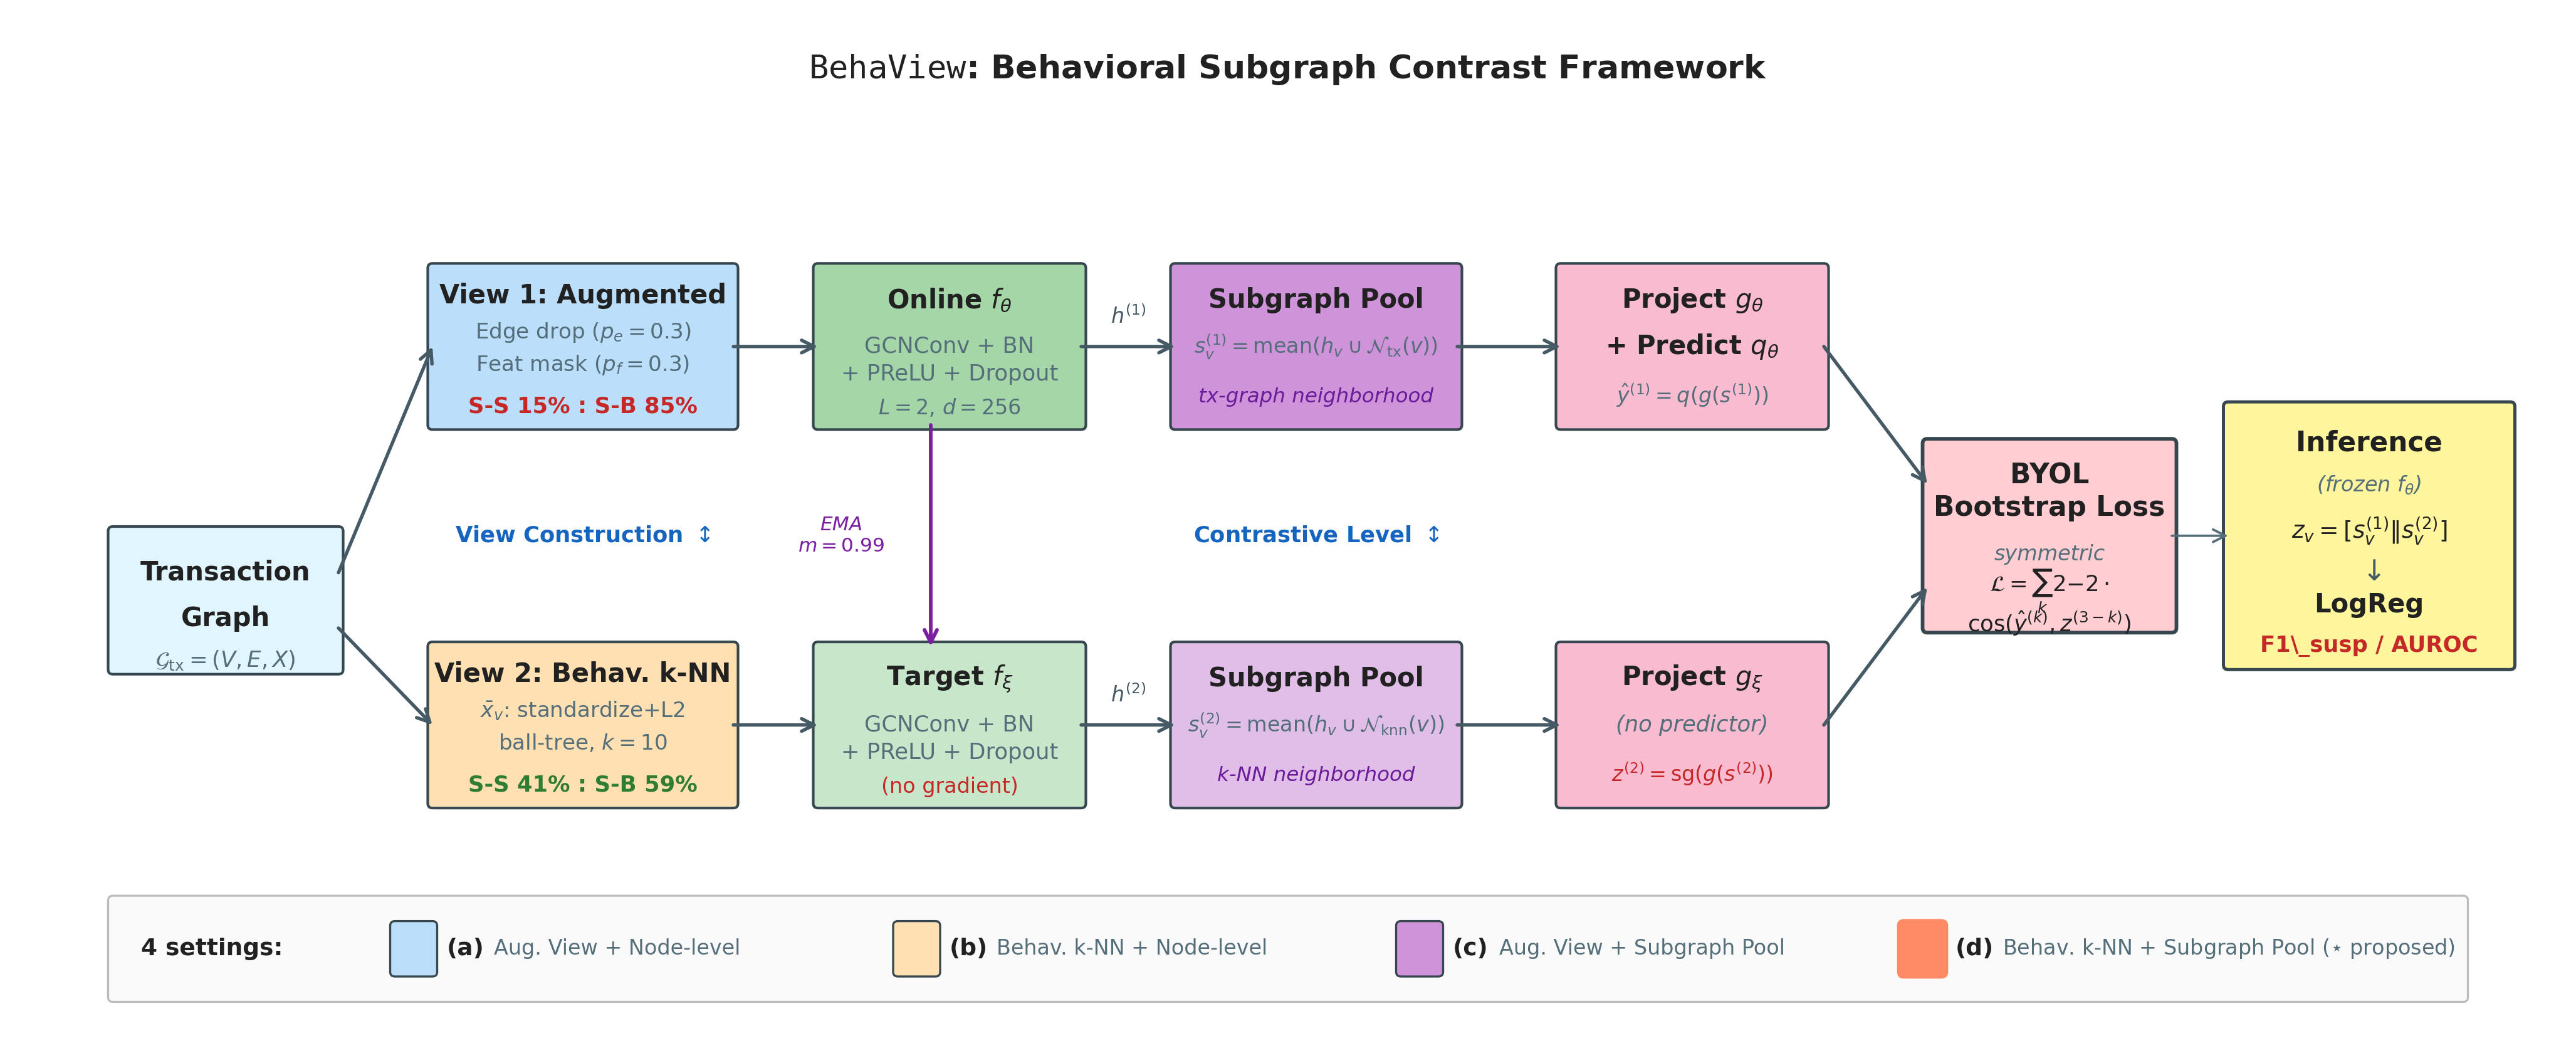
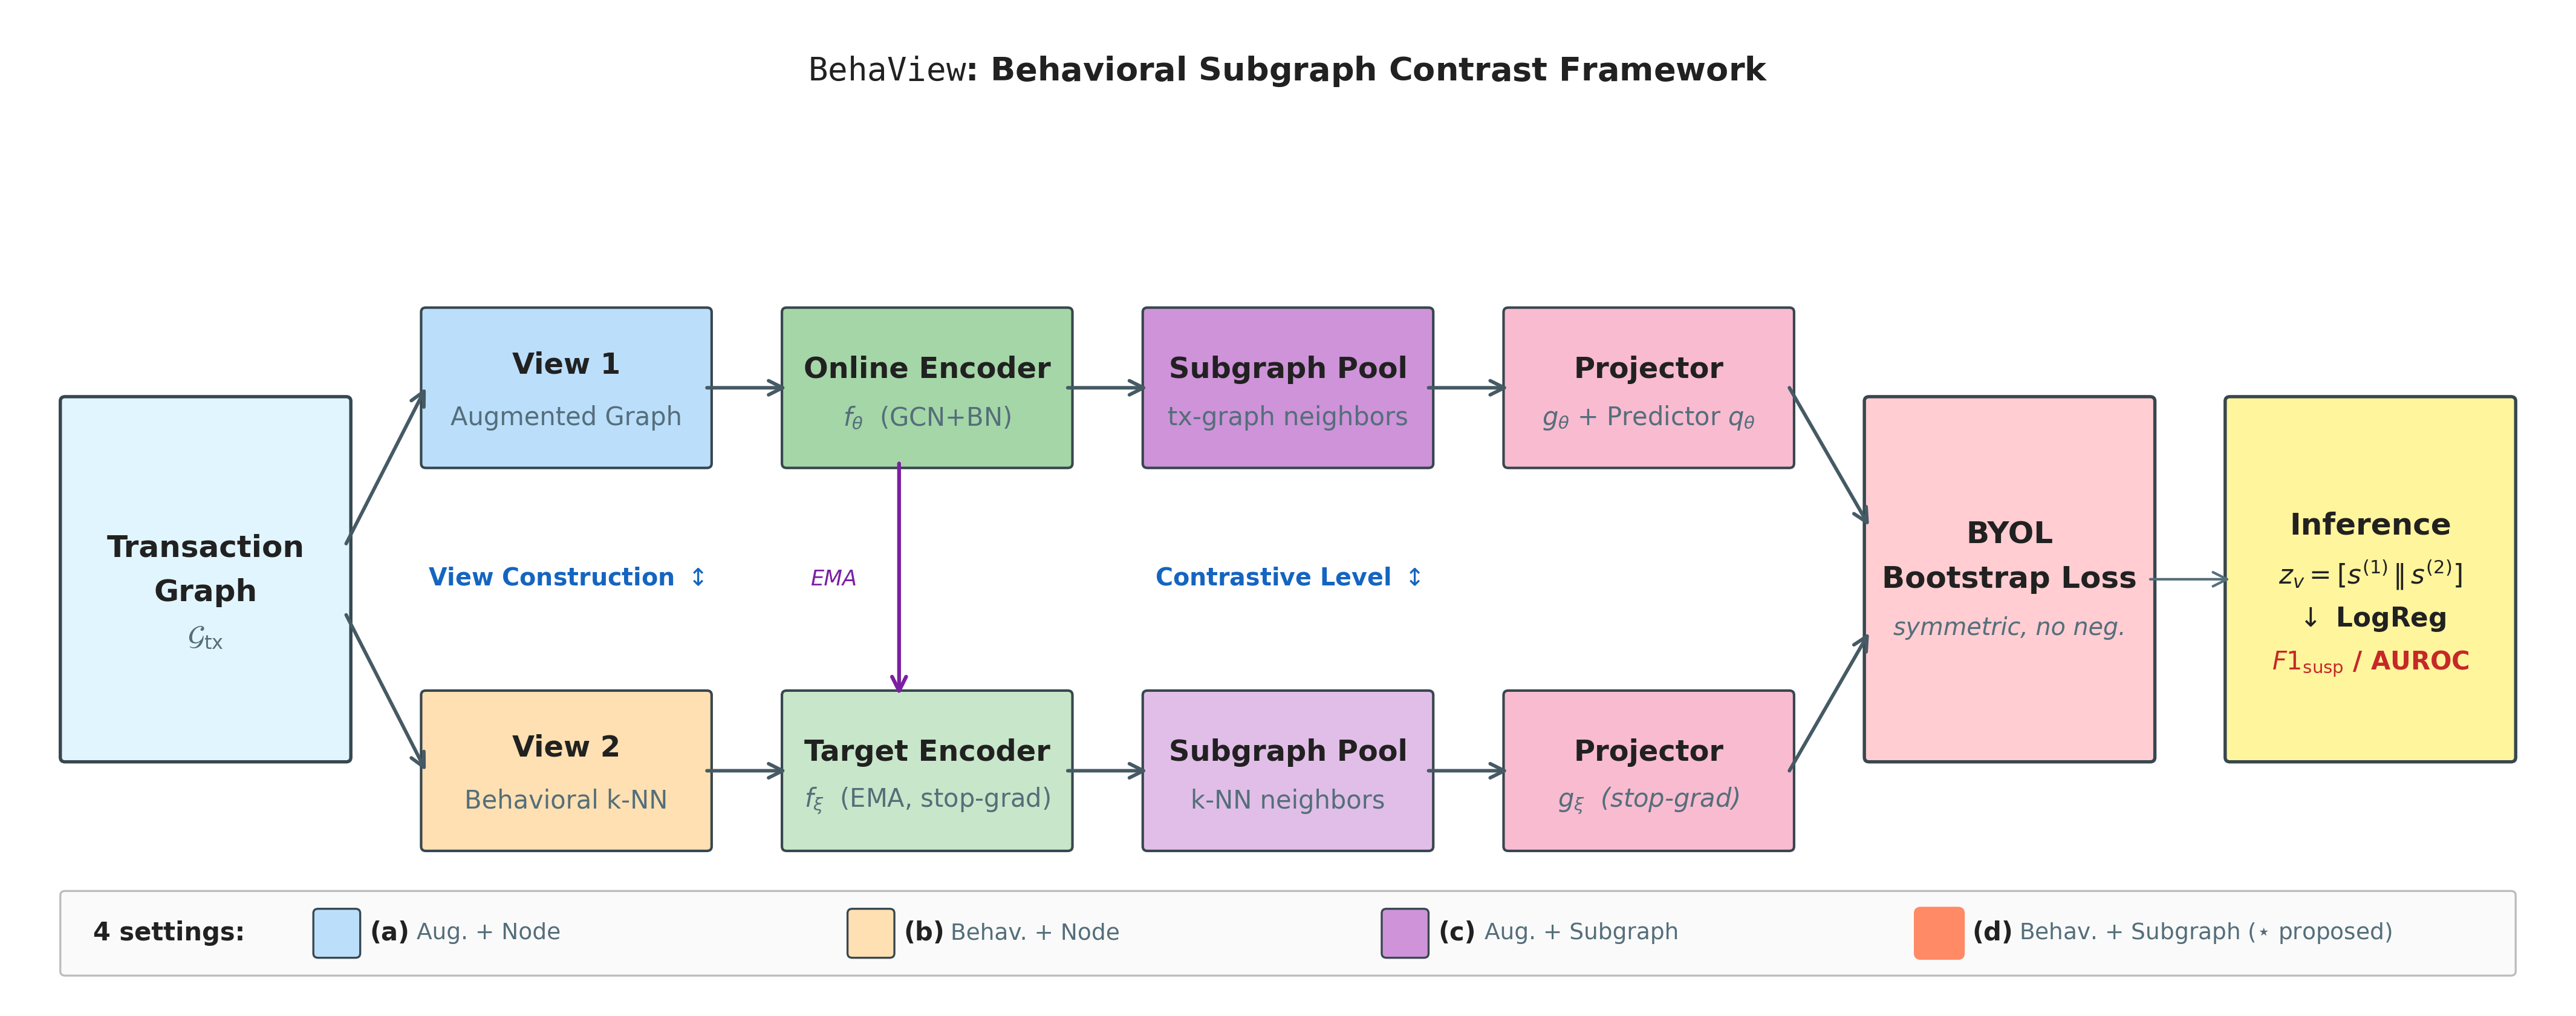
Redesign Figure 2: uniform box widths + matched terminal boxes
Per author guidance:
- All pipeline boxes (View, Encoder, Pool, Projector) share uniform
  width (BW=3.0)
- Three terminal boxes (Transaction Graph, BYOL Loss, Inference) share
  identical width AND height (3.0 x 4.0; spans both rows)

Text inside boxes reduced to component name + one-line role:
- View 1: 'View 1' / 'Augmented Graph' (was 4 lines)
- View 2: 'View 2' / 'Behavioral k-NN'
- Encoder: 'Online/Target Encoder' / 'f_θ (GCN+BN)' / 'f_ξ (EMA, stop-grad)'
- Pool: 'Subgraph Pool' / 'tx-graph neighbors' or 'k-NN neighbors'
- Projector: 'g_θ + Predictor q_θ' or 'g_ξ (stop-grad)'
- BYOL: 'Bootstrap Loss' / 'symmetric, no neg.'
- Inference: 'z_v = [s^(1) || s^(2)] → LogReg → F1_susp/AUROC'

Removed from figure (now only in main text §3.4-3.5 + caption):
- Hyperparameters: p_e=0.3, p_f=0.3, L=2, d=256, k=10, m=0.99
- Equations: pool formula, BYOL loss equation, predictor equation
- Implementation details: ball-tree, standardize+L2

Result: fonts 11.5pt component names + 10pt roles (was 8-10pt mixed),
visually cleaner overview, better column-width fit.

diff --git a/visualize/gen_framework.py b/visualize/gen_framework.py
@@ -1,22 +1,17 @@
 """BehaView framework figure (matplotlib).
 
-Comprehensive design including:
-- Method name in title
-- Two-branch (online/target) BYOL structure
-- EMA momentum arrow (top -> bottom encoder)
-- Stop-gradient symbol on target output
-- Predictor q on online side; projector g on both sides
-- Subgraph pool annotated with respective neighborhood graph (tx vs k-NN)
-- Bootstrap loss with cross-view symmetry
-- Inference path with concat + LogReg
-- 4-setting legend with (d) star marker
+Uniform-width design:
+- All pipeline boxes share the same width (BW)
+- Transaction Graph (start), BYOL Loss, and Inference (end) share the same
+  width AND height (TERMINAL_W x TERMINAL_H)
+- Text inside each box reduced to component name + role only
+- Hyperparameters/equations moved to caption and main text
 """
 import matplotlib
 matplotlib.use('Agg')
 import matplotlib.pyplot as plt
 import matplotlib.patches as mpatches
 from matplotlib.patches import FancyBboxPatch, FancyArrowPatch
-import numpy as np
 import os
 
 OUT = '/home/work/kftc_model/KA-003-FraudCenGCL/_paper/figures'
@@ -33,10 +28,10 @@ plt.rcParams.update({
 C_INPUT     = '#E1F5FE'
 C_VIEW1     = '#BBDEFB'
 C_VIEW2     = '#FFE0B2'
-C_ENC_ON    = '#A5D6A7'   # online encoder (slightly brighter green)
-C_ENC_TG    = '#C8E6C9'   # target encoder (lighter)
-C_POOL_TX   = '#CE93D8'   # subgraph pool over tx graph
-C_POOL_KNN  = '#E1BEE7'   # subgraph pool over k-NN graph
+C_ENC_ON    = '#A5D6A7'
+C_ENC_TG    = '#C8E6C9'
+C_POOL_TX   = '#CE93D8'
+C_POOL_KNN  = '#E1BEE7'
 C_PROJ      = '#F8BBD0'
 C_LOSS      = '#FFCDD2'
 C_INFER     = '#FFF59D'
@@ -49,10 +44,39 @@ C_ARROW     = '#455A64'
 C_EMA       = '#7B1FA2'
 C_SG        = '#C62828'
 
-fig = plt.figure(figsize=(13.5, 5.4))
+# ============ Layout grid ============
+# All pipeline boxes have uniform width BW.
+# Terminal boxes (Input, BYOL Loss, Inference) share width = TERMINAL_W and height = TERMINAL_H.
+BW = 3.0           # uniform pipeline box width
+ROW_H = 1.7        # height of each row box (View/Encoder/Pool/Proj)
+TERMINAL_W = 3.0   # input + BYOL + Inference width (== BW for visual unity)
+TERMINAL_H = 4.0   # input + BYOL + Inference height (spans both rows)
+
+GAP = 0.85         # horizontal gap between columns
+
+# Column x positions (left edge of each box)
+x_in   = 0.5
+x_v    = x_in + TERMINAL_W + GAP
+x_enc  = x_v   + BW + GAP
+x_pool = x_enc + BW + GAP
+x_proj = x_pool + BW + GAP
+x_loss = x_proj + BW + GAP
+x_infr = x_loss + TERMINAL_W + GAP
+
+ROW_T_Y = 6.0   # online row (top) bottom-edge y
+ROW_B_Y = 1.7   # target row (bottom) bottom-edge y
+
+# Terminal box vertical placement: spans both rows (centered)
+TERMINAL_Y = (ROW_T_Y + ROW_B_Y + ROW_H - TERMINAL_H) / 2
+
+# Total figure dimensions
+TOTAL_X = x_infr + TERMINAL_W + 0.5
+TOTAL_Y = 11.0
+
+fig = plt.figure(figsize=(14.0, 5.4))
 ax = fig.add_axes([0, 0, 1, 1])
-ax.set_xlim(0, 27)
-ax.set_ylim(0, 11)
+ax.set_xlim(0, TOTAL_X)
+ax.set_ylim(0, TOTAL_Y)
 ax.axis('off')
 
 # ---------- Helpers ----------
@@ -61,207 +85,158 @@ def box(x, y, w, h, color, edge=C_BORDER, lw=1.0, **kw):
                        facecolor=color, edgecolor=edge, linewidth=lw, **kw)
     ax.add_patch(p)
 
-def text(x, y, t, fs=9, weight='normal', color=C_TEXT, ha='center', va='center', style='normal'):
+def text(x, y, t, fs=11, weight='normal', color=C_TEXT, ha='center', va='center', style='normal'):
     ax.text(x, y, t, fontsize=fs, fontweight=weight, color=color, ha=ha, va=va, style=style)
 
-def arrow(x1, y1, x2, y2, color=C_ARROW, lw=1.3, style='->', text_label=None,
-          text_offset=(0, 0.25), text_color=None, text_size=7.5):
+def arrow(x1, y1, x2, y2, color=C_ARROW, lw=1.4, style='->',
+          text_label=None, text_offset=(0, 0.3), text_color=None, text_size=8.5):
     a = FancyArrowPatch((x1, y1), (x2, y2),
                         arrowstyle=style, color=color, linewidth=lw,
-                        mutation_scale=12, shrinkA=0, shrinkB=0)
+                        mutation_scale=14, shrinkA=0, shrinkB=0)
     ax.add_patch(a)
     if text_label:
         ax.text((x1+x2)/2 + text_offset[0], (y1+y2)/2 + text_offset[1],
                 text_label, fontsize=text_size, color=text_color or color,
                 ha='center', va='center', style='italic',
                 bbox=dict(boxstyle='round,pad=0.2', facecolor='white',
-                          edgecolor='none', alpha=0.85))
+                          edgecolor='none', alpha=0.9))
 
-# ============ Title (top) ============
-text(13.5, 10.45,
+# ============ Title ============
+text(TOTAL_X/2, 10.4,
      '$\\mathtt{BehaView}$: Behavioral Subgraph Contrast Framework',
-     fs=12.5, weight='bold')
+     fs=13, weight='bold')
 
-# ============ Layout grid ============
-# 6 columns: Input | View | Encoder | Pool | Projection/Predictor | Loss/Inference
-COL = {
-    'IN':   (1.0,  2.4),   # x_left, width
-    'VIEW': (4.4,  3.2),
-    'ENC':  (8.5,  2.8),
-    'POOL': (12.3, 3.0),
-    'PROJ': (16.4, 2.8),
-    'LOSS': (20.3, 2.6),
-    'INFR': (23.5, 3.0),
-}
-ROW_T_Y = 6.6  # online row (top)
-ROW_B_Y = 2.5  # target row (bottom)
-ROW_H = 1.7
+# ============ Input (terminal) ============
+icx = x_in + TERMINAL_W/2
+icy = TERMINAL_Y + TERMINAL_H/2
+box(x_in, TERMINAL_Y, TERMINAL_W, TERMINAL_H, C_INPUT, lw=1.3)
+text(icx, icy + 0.35, 'Transaction', fs=12, weight='bold')
+text(icx, icy - 0.15, 'Graph', fs=12, weight='bold')
+text(icx, icy - 0.65, '$\\mathcal{G}_{\\mathrm{tx}}$', fs=11, color=C_SUB)
 
-# ============ Input (single, branches into top + bottom) ============
-ix, iw = COL['IN']
-icx = ix + iw/2
-iy = (ROW_T_Y + ROW_B_Y) / 2 - 0.6
-ih = 1.5
-box(ix, iy, iw, ih, C_INPUT)
-text(icx, iy + 1.05, 'Transaction', fs=10, weight='bold')
-text(icx, iy + 0.55, 'Graph', fs=10, weight='bold')
-text(icx, iy + 0.10, '$\\mathcal{G}_{\\mathrm{tx}}=(V,E,X)$', fs=8.5, color=C_SUB)
+# ============ View 1 / View 2 ============
+vcx = x_v + BW/2
+box(x_v, ROW_T_Y, BW, ROW_H, C_VIEW1)
+text(vcx, ROW_T_Y + ROW_H*0.65, 'View 1', fs=11.5, weight='bold')
+text(vcx, ROW_T_Y + ROW_H*0.30, 'Augmented Graph', fs=10, color=C_SUB)
 
-# ============ View 1 (top) ============
-vx, vw = COL['VIEW']
-vcx = vx + vw/2
-box(vx, ROW_T_Y, vw, ROW_H, C_VIEW1)
-text(vcx, ROW_T_Y + 1.40, 'View 1: Augmented', fs=10, weight='bold')
-text(vcx, ROW_T_Y + 1.00, 'Edge drop ($p_e{=}0.3$)', fs=8.2, color=C_SUB)
-text(vcx, ROW_T_Y + 0.65, 'Feat mask ($p_f{=}0.3$)', fs=8.2, color=C_SUB)
-text(vcx, ROW_T_Y + 0.20, 'S-S 15% : S-B 85%', fs=8.5, weight='bold', color='#C62828')
-
-# ============ View 2 (bottom) ============
-box(vx, ROW_B_Y, vw, ROW_H, C_VIEW2)
-text(vcx, ROW_B_Y + 1.40, 'View 2: Behav. k-NN', fs=10, weight='bold')
-text(vcx, ROW_B_Y + 1.00, '$\\bar{x}_v$: standardize+L2', fs=8.2, color=C_SUB)
-text(vcx, ROW_B_Y + 0.65, 'ball-tree, $k{=}10$', fs=8.2, color=C_SUB)
-text(vcx, ROW_B_Y + 0.20, 'S-S 41% : S-B 59%', fs=8.5, weight='bold', color='#2E7D32')
+box(x_v, ROW_B_Y, BW, ROW_H, C_VIEW2)
+text(vcx, ROW_B_Y + ROW_H*0.65, 'View 2', fs=11.5, weight='bold')
+text(vcx, ROW_B_Y + ROW_H*0.30, 'Behavioral k-NN', fs=10, color=C_SUB)
 
 # Input → views
-arrow(ix+iw, iy + ih*0.7, vx, ROW_T_Y + ROW_H/2)
-arrow(ix+iw, iy + ih*0.3, vx, ROW_B_Y + ROW_H/2)
+arrow(x_in + TERMINAL_W, icy + 0.4, x_v, ROW_T_Y + ROW_H/2)
+arrow(x_in + TERMINAL_W, icy - 0.4, x_v, ROW_B_Y + ROW_H/2)
 
-# Axis 1 label
-text(vcx, (ROW_T_Y + ROW_B_Y + ROW_H)/2, 'View Construction $\\updownarrow$',
-     fs=8.5, weight='bold', color=C_AXIS)
+# Axis 1
+text(vcx, (ROW_T_Y + ROW_B_Y + ROW_H)/2,
+     'View Construction $\\updownarrow$', fs=9.5, weight='bold', color=C_AXIS)
 
 # ============ Encoder ============
-ex, ew = COL['ENC']
-ecx = ex + ew/2
-box(ex, ROW_T_Y, ew, ROW_H, C_ENC_ON)
-text(ecx, ROW_T_Y + 1.35, 'Online $f_\\theta$', fs=10, weight='bold')
-text(ecx, ROW_T_Y + 0.85, 'GCNConv + BN', fs=8.5, color=C_SUB)
-text(ecx, ROW_T_Y + 0.55, '+ PReLU + Dropout', fs=8.5, color=C_SUB)
-text(ecx, ROW_T_Y + 0.18, '$L{=}2$, $d{=}256$', fs=8.0, color=C_SUB, weight='normal')
+ecx = x_enc + BW/2
+box(x_enc, ROW_T_Y, BW, ROW_H, C_ENC_ON)
+text(ecx, ROW_T_Y + ROW_H*0.62, 'Online Encoder', fs=11.5, weight='bold')
+text(ecx, ROW_T_Y + ROW_H*0.30, '$f_\\theta$  (GCN+BN)', fs=10, color=C_SUB)
 
-box(ex, ROW_B_Y, ew, ROW_H, C_ENC_TG)
-text(ecx, ROW_B_Y + 1.35, 'Target $f_\\xi$', fs=10, weight='bold')
-text(ecx, ROW_B_Y + 0.85, 'GCNConv + BN', fs=8.5, color=C_SUB)
-text(ecx, ROW_B_Y + 0.55, '+ PReLU + Dropout', fs=8.5, color=C_SUB)
-text(ecx, ROW_B_Y + 0.18, '(no gradient)', fs=8.0, color=C_SG, weight='normal')
+box(x_enc, ROW_B_Y, BW, ROW_H, C_ENC_TG)
+text(ecx, ROW_B_Y + ROW_H*0.62, 'Target Encoder', fs=11.5, weight='bold')
+text(ecx, ROW_B_Y + ROW_H*0.30, '$f_\\xi$  (EMA, stop-grad)', fs=10, color=C_SUB)
 
 # View → Encoder
-arrow(vx+vw, ROW_T_Y + ROW_H/2, ex, ROW_T_Y + ROW_H/2)
-arrow(vx+vw, ROW_B_Y + ROW_H/2, ex, ROW_B_Y + ROW_H/2)
+arrow(x_v + BW, ROW_T_Y + ROW_H/2, x_enc, ROW_T_Y + ROW_H/2)
+arrow(x_v + BW, ROW_B_Y + ROW_H/2, x_enc, ROW_B_Y + ROW_H/2)
 
-# EMA arrow online -> target (vertical)
-arrow(ecx - 0.2, ROW_T_Y, ecx - 0.2, ROW_B_Y + ROW_H,
-      color=C_EMA, lw=1.4, style='->',
-      text_label='EMA\n$m{=}0.99$', text_offset=(-0.95, 0), text_color=C_EMA, text_size=7.5)
+# EMA (online → target, vertical)
+arrow(ecx - 0.3, ROW_T_Y, ecx - 0.3, ROW_B_Y + ROW_H,
+      color=C_EMA, lw=1.5, text_label='EMA',
+      text_offset=(-0.7, 0), text_color=C_EMA, text_size=8.5)
 
-# ============ Subgraph Pool ============
-px, pw = COL['POOL']
-pcx = px + pw/2
-box(px, ROW_T_Y, pw, ROW_H, C_POOL_TX)
-text(pcx, ROW_T_Y + 1.35, 'Subgraph Pool', fs=10, weight='bold')
-text(pcx, ROW_T_Y + 0.85, '$s^{(1)}_v = \\mathrm{mean}(h_v \\cup \\mathcal{N}_{\\mathrm{tx}}(v))$',
-     fs=8.0, color=C_SUB)
-text(pcx, ROW_T_Y + 0.30, 'tx-graph neighborhood', fs=7.8, color='#6A1B9A', style='italic')
+# ============ Pool ============
+pcx = x_pool + BW/2
+box(x_pool, ROW_T_Y, BW, ROW_H, C_POOL_TX)
+text(pcx, ROW_T_Y + ROW_H*0.62, 'Subgraph Pool', fs=11.5, weight='bold')
+text(pcx, ROW_T_Y + ROW_H*0.30, 'tx-graph neighbors', fs=10, color=C_SUB)
 
-box(px, ROW_B_Y, pw, ROW_H, C_POOL_KNN)
-text(pcx, ROW_B_Y + 1.35, 'Subgraph Pool', fs=10, weight='bold')
-text(pcx, ROW_B_Y + 0.85, '$s^{(2)}_v = \\mathrm{mean}(h_v \\cup \\mathcal{N}_{\\mathrm{knn}}(v))$',
-     fs=8.0, color=C_SUB)
-text(pcx, ROW_B_Y + 0.30, 'k-NN neighborhood', fs=7.8, color='#6A1B9A', style='italic')
+box(x_pool, ROW_B_Y, BW, ROW_H, C_POOL_KNN)
+text(pcx, ROW_B_Y + ROW_H*0.62, 'Subgraph Pool', fs=11.5, weight='bold')
+text(pcx, ROW_B_Y + ROW_H*0.30, 'k-NN neighbors', fs=10, color=C_SUB)
 
 # Encoder → Pool
-arrow(ex+ew, ROW_T_Y + ROW_H/2, px, ROW_T_Y + ROW_H/2,
-      text_label='$h^{(1)}$', text_offset=(0, 0.32), text_size=8)
-arrow(ex+ew, ROW_B_Y + ROW_H/2, px, ROW_B_Y + ROW_H/2,
-      text_label='$h^{(2)}$', text_offset=(0, 0.32), text_size=8)
+arrow(x_enc + BW, ROW_T_Y + ROW_H/2, x_pool, ROW_T_Y + ROW_H/2)
+arrow(x_enc + BW, ROW_B_Y + ROW_H/2, x_pool, ROW_B_Y + ROW_H/2)
 
-# Axis 2 label
-text(pcx, (ROW_T_Y + ROW_B_Y + ROW_H)/2, 'Contrastive Level $\\updownarrow$',
-     fs=8.5, weight='bold', color=C_AXIS)
+# Axis 2
+text(pcx, (ROW_T_Y + ROW_B_Y + ROW_H)/2,
+     'Contrastive Level $\\updownarrow$', fs=9.5, weight='bold', color=C_AXIS)
 
-# ============ Projection & Predictor ============
-prx, prw = COL['PROJ']
-prcx = prx + prw/2
-# Top: g_θ + q_θ
-box(prx, ROW_T_Y, prw, ROW_H, C_PROJ)
-text(prcx, ROW_T_Y + 1.35, 'Project $g_\\theta$', fs=10, weight='bold')
-text(prcx, ROW_T_Y + 0.85, '+ Predict $q_\\theta$', fs=10, weight='bold')
-text(prcx, ROW_T_Y + 0.32, '$\\hat{y}^{(1)} = q(g(s^{(1)}))$', fs=8.0, color=C_SUB)
+# ============ Projector / Predictor ============
+prcx = x_proj + BW/2
+box(x_proj, ROW_T_Y, BW, ROW_H, C_PROJ)
+text(prcx, ROW_T_Y + ROW_H*0.62, 'Projector', fs=11.5, weight='bold')
+text(prcx, ROW_T_Y + ROW_H*0.30, '$g_\\theta$ + Predictor $q_\\theta$', fs=10, color=C_SUB)
 
-# Bottom: g_ξ only
-box(prx, ROW_B_Y, prw, ROW_H, C_PROJ)
-text(prcx, ROW_B_Y + 1.35, 'Project $g_\\xi$', fs=10, weight='bold')
-text(prcx, ROW_B_Y + 0.85, '(no predictor)', fs=8.5, color=C_SUB, style='italic')
-text(prcx, ROW_B_Y + 0.32, '$z^{(2)} = \\mathrm{sg}(g(s^{(2)}))$', fs=8.0, color=C_SG)
+box(x_proj, ROW_B_Y, BW, ROW_H, C_PROJ)
+text(prcx, ROW_B_Y + ROW_H*0.62, 'Projector', fs=11.5, weight='bold')
+text(prcx, ROW_B_Y + ROW_H*0.30, '$g_\\xi$  (stop-grad)', fs=10, color=C_SUB, style='italic')
 
 # Pool → Proj
-arrow(px+pw, ROW_T_Y + ROW_H/2, prx, ROW_T_Y + ROW_H/2)
-arrow(px+pw, ROW_B_Y + ROW_H/2, prx, ROW_B_Y + ROW_H/2)
+arrow(x_pool + BW, ROW_T_Y + ROW_H/2, x_proj, ROW_T_Y + ROW_H/2)
+arrow(x_pool + BW, ROW_B_Y + ROW_H/2, x_proj, ROW_B_Y + ROW_H/2)
 
-# ============ BYOL Loss (centered between rows) ============
-lx, lw = COL['LOSS']
-lcx = lx + lw/2
-ly = (ROW_T_Y + ROW_B_Y + ROW_H)/2 - 1.0
-lh = 2.0
-box(lx, ly, lw, lh, C_LOSS, lw=1.4)
-text(lcx, ly + 1.65, 'BYOL', fs=10.5, weight='bold')
-text(lcx, ly + 1.30, 'Bootstrap Loss', fs=10.5, weight='bold')
-text(lcx, ly + 0.80, 'symmetric', fs=8.0, color=C_SUB, style='italic')
-text(lcx, ly + 0.40, '$\\mathcal{L}=\\sum_k 2{-}2\\cdot$', fs=8.5, color=C_TEXT)
-text(lcx, ly + 0.05, '$\\cos(\\hat{y}^{(k)}, z^{(3-k)})$', fs=8.5, color=C_TEXT)
+# ============ BYOL Loss (terminal) ============
+lcx = x_loss + TERMINAL_W/2
+lcy = TERMINAL_Y + TERMINAL_H/2
+box(x_loss, TERMINAL_Y, TERMINAL_W, TERMINAL_H, C_LOSS, lw=1.3)
+text(lcx, lcy + 0.5, 'BYOL', fs=12, weight='bold')
+text(lcx, lcy + 0.0, 'Bootstrap Loss', fs=12, weight='bold')
+text(lcx, lcy - 0.55, 'symmetric, no neg.', fs=9.5, color=C_SUB, style='italic')
 
-# Proj → Loss (curve from top and bottom)
-arrow(prx+prw, ROW_T_Y + ROW_H/2, lx, ly + lh*0.78)
-arrow(prx+prw, ROW_B_Y + ROW_H/2, lx, ly + lh*0.22)
+# Proj → Loss (converge)
+arrow(x_proj + BW, ROW_T_Y + ROW_H/2, x_loss, lcy + 0.6)
+arrow(x_proj + BW, ROW_B_Y + ROW_H/2, x_loss, lcy - 0.6)
 
-# ============ Inference path (right, separate) ============
-inx, inw = COL['INFR']
-incx = inx + inw/2
-iny = (ROW_T_Y + ROW_B_Y + ROW_H)/2 - 1.4
-inh = 2.8
-box(inx, iny, inw, inh, C_INFER, lw=1.2)
-text(incx, iny + 2.40, 'Inference', fs=10.5, weight='bold')
-text(incx, iny + 1.95, '(frozen $f_\\theta$)', fs=8, color=C_SUB, style='italic')
-text(incx, iny + 1.45, '$z_v = [s^{(1)}_v \\| s^{(2)}_v]$', fs=9, color=C_TEXT)
-text(incx, iny + 1.00, '$\\downarrow$', fs=11, color=C_ARROW)
-text(incx, iny + 0.65, 'LogReg', fs=10, weight='bold')
-text(incx, iny + 0.20, 'F1\\_susp / AUROC', fs=8.5, color='#C62828', weight='bold')
+# ============ Inference (terminal) ============
+incx = x_infr + TERMINAL_W/2
+incy = TERMINAL_Y + TERMINAL_H/2
+box(x_infr, TERMINAL_Y, TERMINAL_W, TERMINAL_H, C_INFER, lw=1.3)
+text(incx, incy + 0.6, 'Inference', fs=12, weight='bold')
+text(incx, incy + 0.05, '$z_v = [s^{(1)}\\,\\|\\,s^{(2)}]$', fs=10.5, color=C_TEXT)
+text(incx, incy - 0.45, '$\\downarrow$ LogReg', fs=10.5, weight='bold')
+text(incx, incy - 0.95, '$F1_{\\mathrm{susp}}$ / AUROC', fs=10, color='#C62828', weight='bold')
 
-# Loss → Inference (skip arrow, dashed)
-arrow(lx+lw, ly + lh/2, inx, iny + inh/2,
-      style='->', lw=0.9, color=C_SUB)
+# Loss → Inference (dashed flow indicator)
+arrow(x_loss + TERMINAL_W, lcy, x_infr, incy, lw=1.0, color=C_SUB)
 
 # ============ Bottom legend (4-setting) ============
-leg_y = 0.4
-leg_x = 1.0
-leg_w = 25.0
-leg_h = 1.05
+leg_y = 0.3
+leg_h = 0.85
+leg_x = 0.5
+leg_w = TOTAL_X - 1.0
 box(leg_x, leg_y, leg_w, leg_h, '#FAFAFA', edge='#BDBDBD', lw=0.8)
 
 text(leg_x + 0.3, leg_y + leg_h/2, '4 settings:',
-     fs=9, weight='bold', ha='left')
+     fs=10, weight='bold', ha='left')
 
-settings_x_offset = 3.0
+settings_x_offset = 2.7
 settings = [
-    ('(a)', 'Aug. View + Node-level',     C_VIEW1, False),
-    ('(b)', 'Behav. k-NN + Node-level',   C_VIEW2, False),
-    ('(c)', 'Aug. View + Subgraph Pool',  C_POOL_TX, False),
-    ('(d)', 'Behav. k-NN + Subgraph Pool ($\\star$ proposed)', C_PROPOSED, True),
+    ('(a)', 'Aug. + Node',     C_VIEW1, False),
+    ('(b)', 'Behav. + Node',   C_VIEW2, False),
+    ('(c)', 'Aug. + Subgraph', C_POOL_TX, False),
+    ('(d)', 'Behav. + Subgraph ($\\star$ proposed)', C_PROPOSED, True),
 ]
 slot_w = (leg_w - settings_x_offset - 0.6) / 4
 for i, (tag, desc, col, star) in enumerate(settings):
     x0 = leg_x + settings_x_offset + i * slot_w
     sw = 0.4
-    sh = 0.5
+    sh = 0.45
     sy = leg_y + (leg_h - sh)/2
     box(x0, sy, sw, sh, col,
         edge=C_PROPOSED if star else C_BORDER,
         lw=1.6 if star else 0.8)
     text(x0 + sw + 0.15, leg_y + leg_h/2, tag,
-         fs=9, weight='bold', ha='left')
+         fs=10, weight='bold', ha='left')
     text(x0 + sw + 0.65, leg_y + leg_h/2, desc,
-         fs=8.0, ha='left', color=C_SUB)
+         fs=9, ha='left', color=C_SUB)
 
 plt.savefig(os.path.join(OUT, 'fig_framework.pdf'), bbox_inches='tight', dpi=300)
 plt.savefig(os.path.join(OUT, 'fig_framework.png'), bbox_inches='tight', dpi=300)